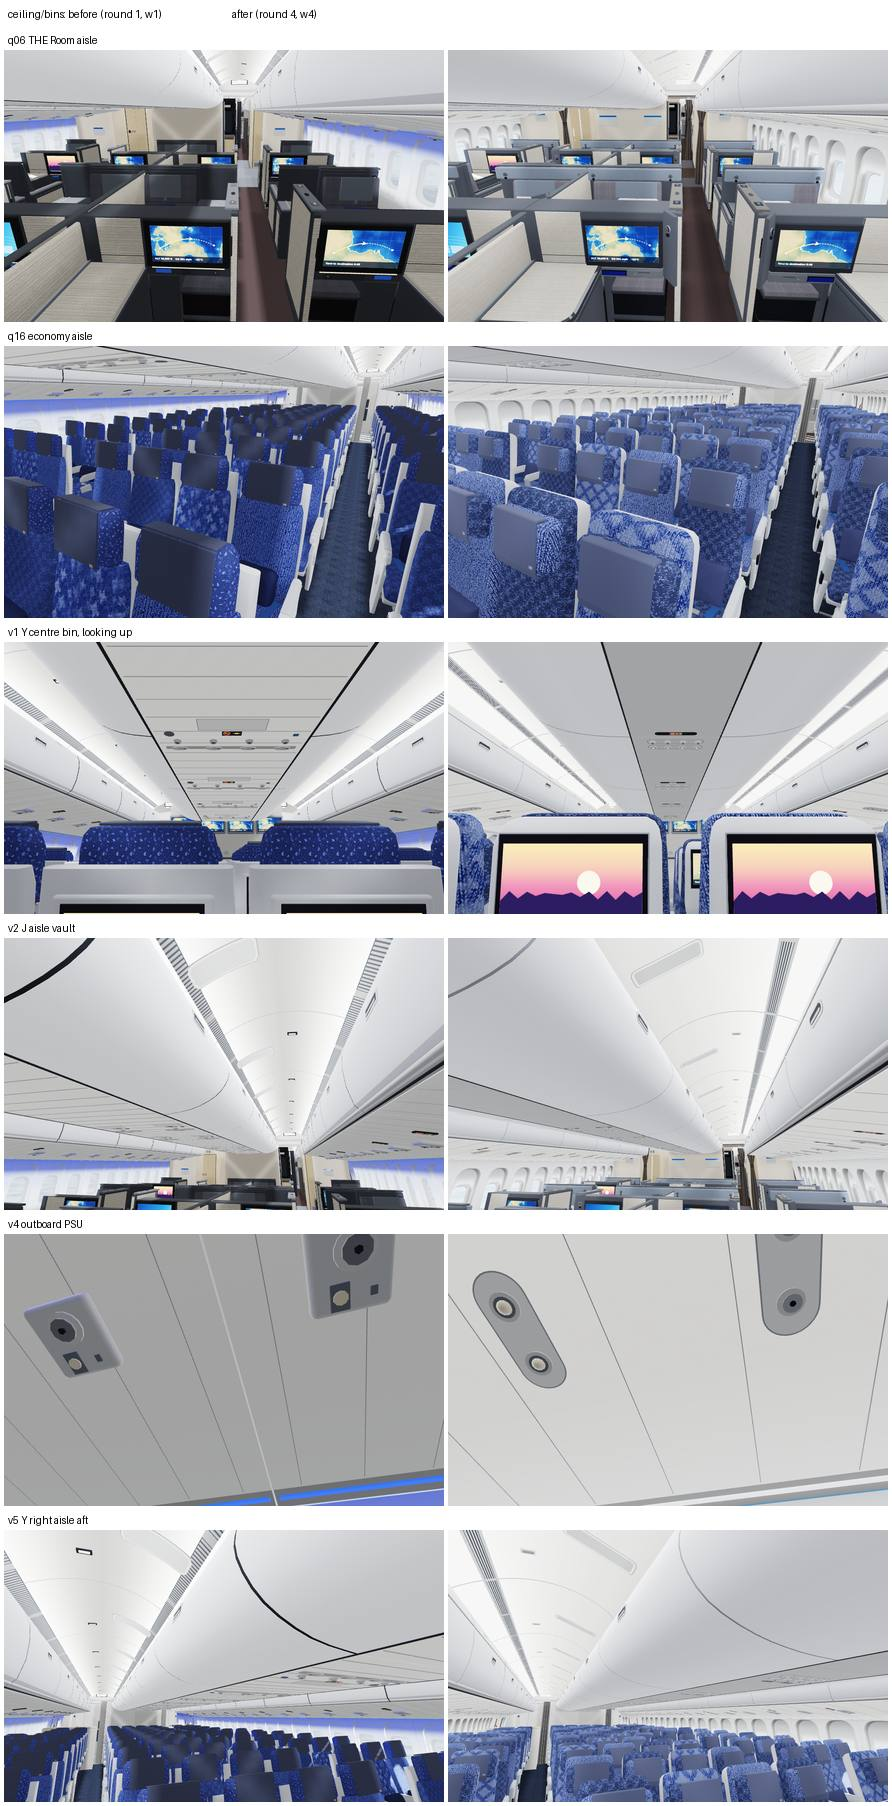
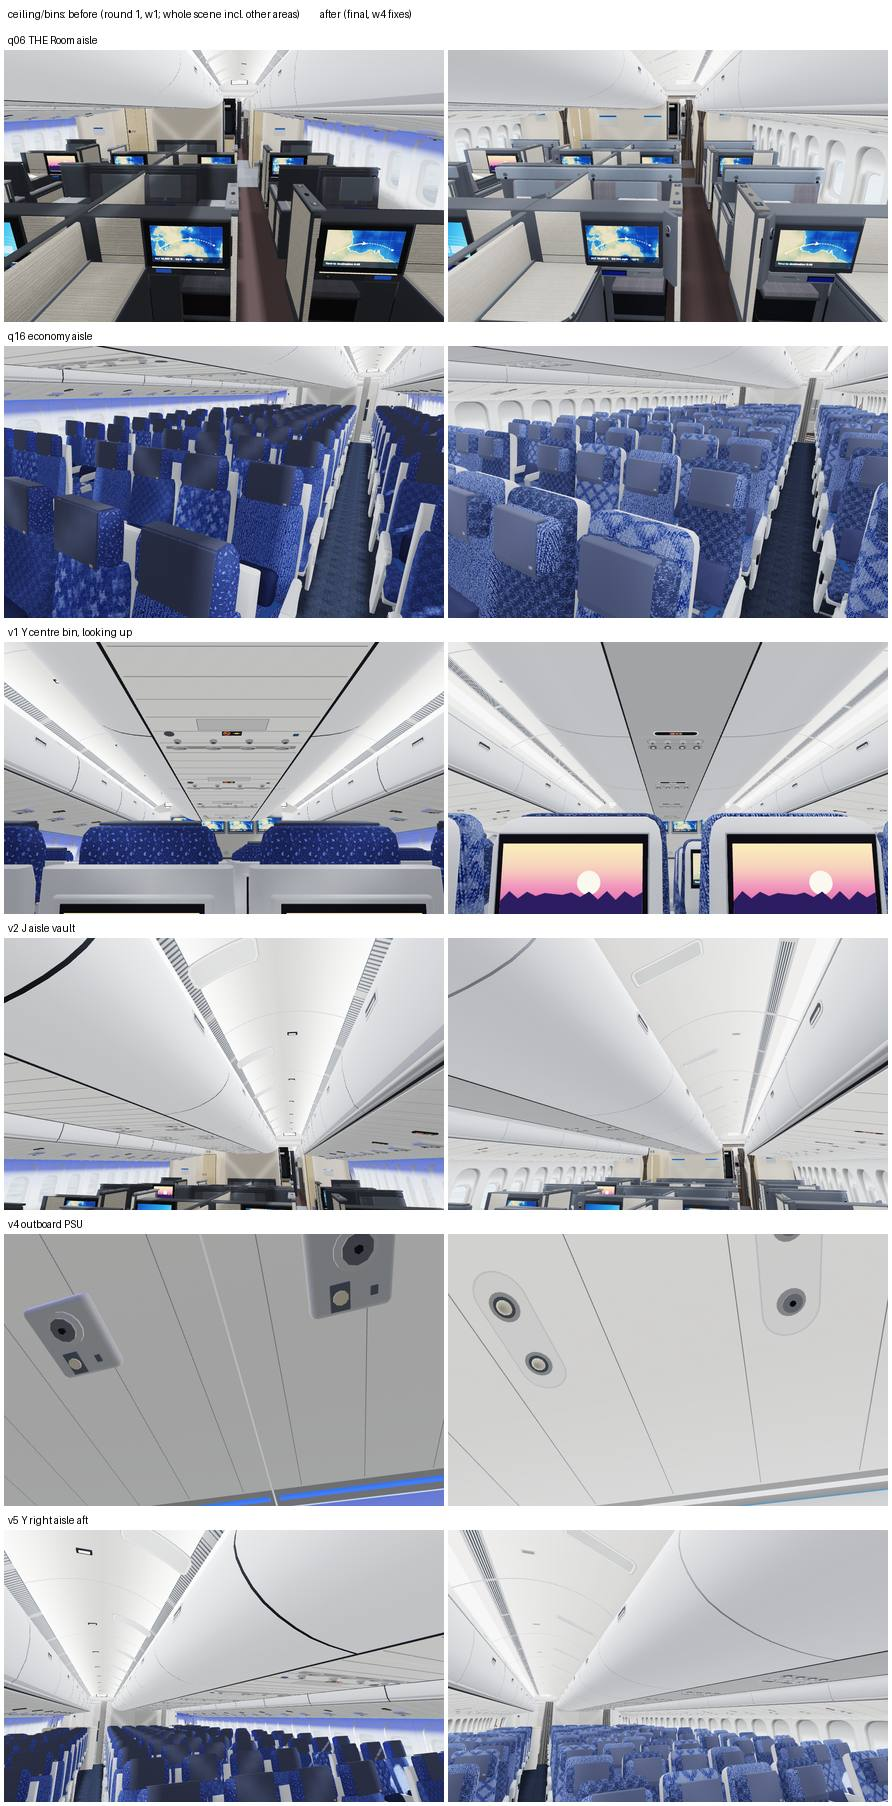
cabin777 ceiling: final report (w1 5.2/6.2 -> w4 7.2/7.8), before/after sheet with final renders, question 5
Claude-Session: https://claude.ai/code/session_01N74kWXmPSAgP9dSwhaS7HQ

diff --git a/cabin777/review/qa/ceiling_report.md b/cabin777/review/qa/ceiling_report.md
@@ -1,0 +1,100 @@
+# Ceiling / bins area report
+
+- **Scope:** aisle ceilings, cove light, grille, outboard and centre bins, latches, PSUs, signs, placards and EXIT signs.
+- **Files:** `src/07b_ceiling.js` and `src/08_bins.js`. No shared files were edited.
+- **Method:** four rounds of rating by two independent raters (A: skeptic; B: geometry first), with fixes after each round.
+- **Rating files:** `ceiling_w{1..4}{a,b}.json`. The previous rating was `ceiling_r2.json` (6.3).
+
+## Scores
+
+| Round | Rater A (skeptic) | Rater B (geometry) | Mean |
+|---|---|---|---|
+| r2 (before this session) | 6.3 | 6.3 | 6.3 |
+| w1 (fresh re-rate) | 5.2 | 6.2 | 5.7 |
+| w2 | 6.1 | 7.1 | 6.6 |
+| w3 | 6.8 | 7.5 | 7.15 |
+| w4 | 7.2 | 7.8 | 7.5 |
+
+- **Target not reached.** The target was 8.5 from both raters. Four rounds is the brief's limit. No high-severity issue is open after w3.
+- **Last fixes not rated.** The medium and low w4 findings were fixed after the w4 rating, in commit bca62e5:
+  - vault brightness next to the grille
+  - PSU wells that read as grey stickers
+  - white rings in the centre light well
+  - brown ground in the sign windows
+- **Round-1 scores dropped for a reason.** The raters downloaded about 45 real in-cabin photos into `ref/web/ceiling/` (gitignored), and those photos showed errors r2 had not caught.
+
+## What changed (by evidence)
+
+1. **Grille and cove light on the outboard edge only** (w1 high, both raters).
+   - Five real photos show the slotted grille and cove light only along the outboard bin top, in both aisles: b_lalf_c119, b_sany_y12, b_sany_y22 (both aisles in one frame), thrifty_j_cabin-1 and sany_py_10.
+   - The model had both edges. Now there is one grille per aisle and a plain centre-bin crease, and the centre-bin LED is replaced by a filler.
+   - ANA's y_47301 seems to disagree (see the questions).
+2. **The grille has fore-aft slots, not transverse slats** (w1 high, A).
+   - The b_lalf_c119 close-up shows 4–5 longitudinal slots in segments with solid bridges.
+   - The grille is now a slim 0.05 m strip with 4 mid-dark slits, 2 segments per panel, and a bridge on every panel joint.
+3. **Cove diffuser band** (w2/w3 medium).
+   - A near-white lit band 3–4× the grille width runs from the bin crest to the grille, as in c119 and y22.
+   - The grille is at t 0.24.
+   - The vault falls off from the grille toward the centre bin: lower emissive, plus a baked ×1.0 → ×0.84 colour falloff.
+4. **Centre bin** (w1–w3).
+   - The channel narrowed from 0.84 to 0.48 m, with broader door wraps. The 4-fitting well now fills about 0.67 of the channel, as in b_sany_y22 / y_47300.
+   - The channel reads recessed (0.85 of the door tone; the photo gives 0.76–0.87).
+   - The bin shading is continuous in the normal, which removed the w1 banding. The Catmull-Rom door section is kept.
+5. **PSUs.**
+   - Outboard: a recessed stadium well per window bay, across the band, holding 2 eyeball lights or 2 gaspers on alternate bays (thrifty_j_overhead-vent, b_lalf_c26). The old proud box is gone.
+   - Centre: a light well and a gasper well with 4 fittings each, and a long smoked sign pill. The O2 plate outline and the unverified call button were removed.
+   - The wells are dished and band-coloured.
+6. **Signs.**
+   - Flush smoked pill windows with amber icons and red accents (c26: a red ring on the no-smoking sign, a red arrow on the seat-belt sign). They replace the black proud pods.
+   - The icon quad keeps the atlas aspect. This fixed a w3 high: a z-fight and stretched icons.
+7. **Outboard doors.**
+   - A top rail carries the row placard. It sits at RAIL_Y 2.105, so the placard faces the aisle. At 2.163 it had drawn edge-on (w2 high).
+   - The latch is a true stadium. `gPlate` was added because `gRBox` squares its corners on thin plates.
+   - Module seams are 6 mm flush hairlines instead of 12 mm dark gaps.
+8. **Vault fittings.**
+   - A rounded-rect speaker (0.34 × 0.10 m) with a perforated face (c119). Rater A withdrew their round-1 "slim strip" claim as a perspective artefact.
+   - The emergency light is a light frame round a grey lens.
+   - Panel joints are 8 mm and lighter.
+9. **Artefacts.**
+   - The zone-end header closures and the extended centre panel removed the sky leaks.
+   - The bin body, band and wash lens now run the full module length.
+   - The monument light panel is near flush.
+   - EXIT sign housings are light and double-faced.
+   - The door domes are lighter.
+
+- **Triangles:** ceiling and bins went from 53.6k to 54.4k (+0.8k, +1.5 %). Everything new is instanced per module or per PSU, as before.
+- **Before/after sheet:** `ceiling_before_after.jpg`, own renders only, 210 KB. The q06/q16 "before" frames also contain other areas' old state.
+
+## Sources used (all real photos win over ANA renderings)
+
+- **Official ANA photos** (ref/ana): y_47300, y_47301, py_37302, c_27312.
+- **Real photos** (ref/web/ceiling, downloaded by the raters):
+  - Live and Let's Fly (b_lalf_c119 ceiling/grille, b_lalf_c26 PSU + sign close-up)
+  - SANspotter economy (b_sany_y10/y12/y22) and premium economy (sany_py_*)
+  - Thrifty Traveler (thrifty_j_cabin-1, thrifty_j_overhead-vent)
+  - Frugal Flyer (seat vents)
+  - OMAAT
+- **Boeing D6-58329-2:** the outboard bin lip at 1.58 m (the shell worker's measurement) agrees with the model's bin bottom at the sidewall (1.60 m). Not changed.
+- **Code comments:** every value in the two files carries a [V], [D] or [A] tag and its photo.
+
+## Open issues (w4, after the last fixes)
+
+- **Centre channel is flat.** b_sany_y22 shows many raised transverse steps; the model has plain panels with irregular joints. (A, medium)
+- **Outboard band lacks raised modules.** The stepped PSU modules and ribbed filler strips in thrifty_j_overhead-vent are not modelled. (A and B, low)
+- **Vault joints are plain arcs.** In c119 they are raised ribs that sweep aft along the centre-bin crest. (B, cosmetic)
+- **Centre door has no rail.** c119 shows a raised placard rail there. (B, cosmetic)
+- **Light-blue hairline at the outboard band edge.** It is the blue sidewall wash lens (layer 12 → u_sideLed) at the bin/sidewall joint. The raters read it as sky. It is left as is: the c26 close-up shows a blue light strip in that place.
+- **Door-area ceilings are unverified.** No photo was found (see the questions).
+
+## Handed to other areas (`from_ceiling.md`)
+
+- **Integration:** the q01_door1 camera (the q13 camera was already fixed). The raters also note that q15 no longer shows the ceiling.
+- **Monuments:** the black-edged wood panel over the door-3 cross aisle. It belongs to `monuments`, not the ceiling.
+
+## Questions for the user (`questions_ceiling.md`)
+
+1. **Grille side.** Five real photos put the grille outboard. ANA's official y_47301 seems to put it by the centre bin. Is that photo mirrored or retouched?
+2. **Centre PSU in economy.** Is there a close photo? The model uses a light well plus a gasper well, and Rater B reads y_47300 as confirming the two rows.
+3. **Door-area ceilings.** Do you have any photo of a door-area (cross-aisle) ceiling?
+4. **Centre-bin underside.** Is there a straight-up photo of it, to confirm the channel/bin width ratio?
+5. **Ceiling gaspers over THE Room.** Should the centre-bin PSUs over THE Room middle seats keep gaspers? b_frugal_c_vents shows gaspers on the seat shell; thrifty shows overhead gaspers on the outboard band.

diff --git a/cabin777/review/qa/questions_ceiling.md b/cabin777/review/qa/questions_ceiling.md
@@ -4,3 +4,4 @@
 2. **Centre PSU in economy:** b_sany_y22 shows one stadium-shaped well with 4 round fittings per seat group. The model uses two wells: 4 reading lights, then 4 gaspers. Is there a close photo showing whether the second row exists?
 3. **Door-area (cross-aisle) ceilings:** no photo of the new-config door-area ceilings was found. The model uses a raised dome with a flat centre panel and two fore-aft light strips (after up_F_Forward-Look). Do your photos show one?
 4. **Centre-bin width ratio:** channel/bin width reads about 0.27 in y_47300 and about 0.47 in b_sany_y22. The model uses 0.36 in plan. Is there a straight-up photo of a centre-bin underside?
+5. **THE Room centre gaspers:** b_frugal_c_vents shows gasper nozzles on THE Room seat shell, and thrifty_j_overhead-vent shows overhead gaspers on the J outboard band. The model keeps a light + gasper well per seat in the centre-bin channel over the D/G seats. Should the ceiling gaspers there go?
